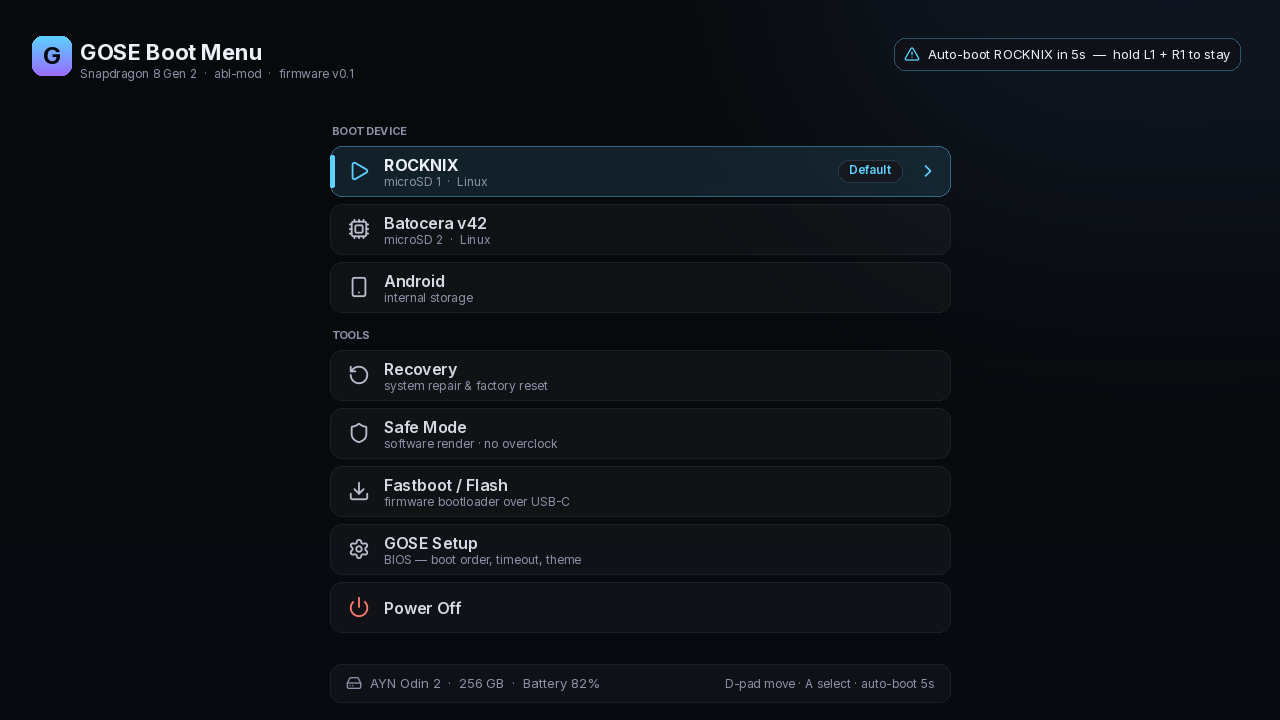
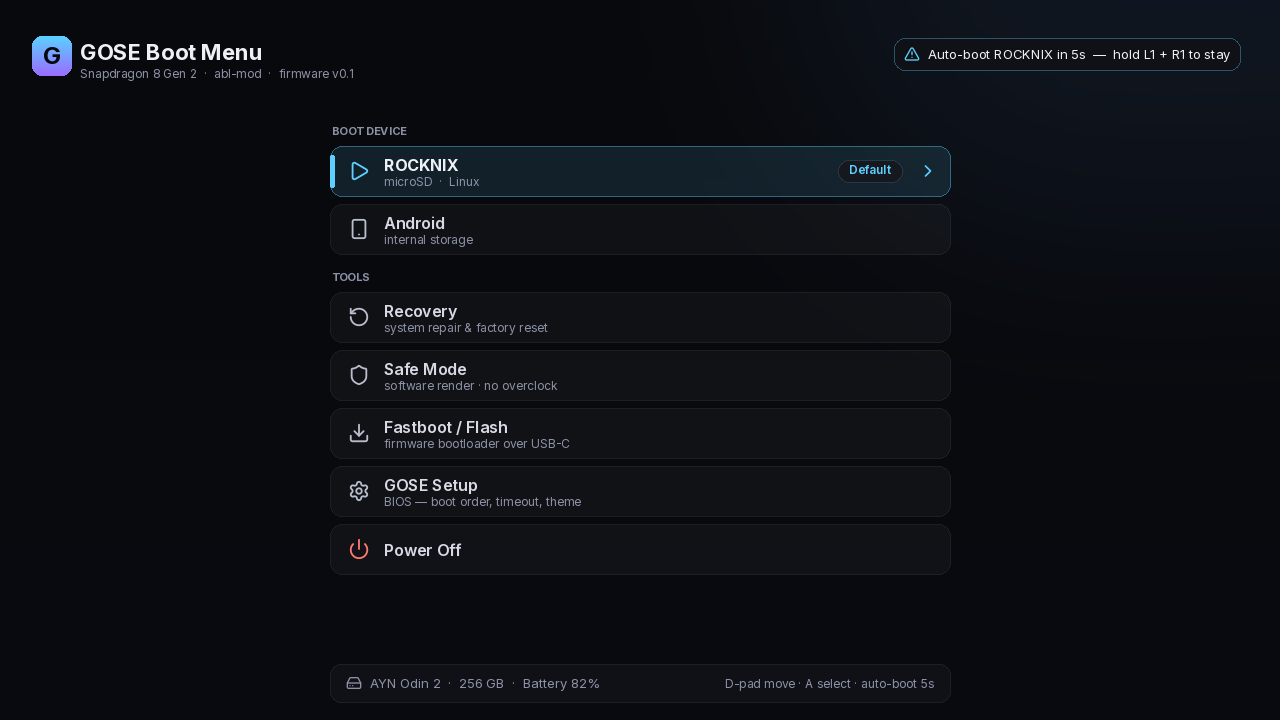
Pick single Linux = ROCKNIX; trim boot menu to ROCKNIX + Android
Zeke (2026-06-03): drop run-both-in-parallel — one best Linux + Android.
ROCKNIX chosen (verified-stable, officially supported on Odin 2); Batocera kept
as documented fallback only. ADR-0012 supersedes ADR-0001.

- Boot Menu: removed Batocera entry (BOOT = ROCKNIX + Android) across
  bootmenu.html, render_bootmenu.py, scripts/gose_bootmenu.py; re-rendered.
- Tests updated (boot entries = rocknix+android; 46 still pass).
- Updated CLAUDE.md current decision, ROADMAP, docs/10-boot-menu.md.

https://claude.ai/code/session_01R5HqBQytjbBWJqn7Wyq1Ca

diff --git a/gui/mockup/bootmenu.html b/gui/mockup/bootmenu.html
@@ -46,8 +46,7 @@
   document.documentElement.dataset.theme=localStorage.getItem("gose-theme")||"onyx";
   const ENTRIES=[
     ["BOOT DEVICE"],
-    ["play","ROCKNIX","microSD 1 · Linux","Default","boot"],
-    ["cpu","Batocera v42","microSD 2 · Linux","","boot"],
+    ["play","ROCKNIX","microSD · Linux","Default","boot"],
     ["smartphone","Android","internal storage","","boot"],
     ["TOOLS"],
     ["rotate-ccw","Recovery","system repair & factory reset","","tool"],

diff --git a/agent/tests/test_bootmenu.py b/agent/tests/test_bootmenu.py
@@ -40,11 +40,13 @@ class BootMenuLogic(unittest.TestCase):
         self.assertEqual(bm.move(n - 1, 1, n), 0)
 
     def test_select_returns_action(self):
-        self.assertEqual(bm.select(0), "boot:sd1")
+        self.assertEqual(bm.select(0), "boot:sd")
         self.assertEqual(bm.select(len(bm.BOOT_ENTRIES) - 1), "tool:poweroff")
 
-    def test_entries_match_count(self):
-        self.assertEqual(len(bm.BOOT_ENTRIES), 8)
+    def test_entries_are_rocknix_and_android_only(self):
+        boot = [e for e in bm.BOOT_ENTRIES if e[2].startswith("boot:")]
+        self.assertEqual([e[0] for e in boot], ["rocknix", "android"])
+        self.assertEqual(len(bm.BOOT_ENTRIES), 7)
 
 
 if __name__ == "__main__":

diff --git a/scripts/gose_bootmenu.py b/scripts/gose_bootmenu.py
@@ -25,8 +25,7 @@ DEFAULT_COMBO = frozenset({"L1", "R1"})
 
 # id, label, action — kept in sync with gui/mockup/bootmenu.html
 BOOT_ENTRIES = [
-    ("rocknix",  "ROCKNIX",          "boot:sd1"),
-    ("batocera", "Batocera v42",     "boot:sd2"),
+    ("rocknix",  "ROCKNIX",          "boot:sd"),
     ("android",  "Android",          "boot:internal"),
     ("recovery", "Recovery",         "tool:recovery"),
     ("safe",     "Safe Mode",        "tool:safe"),
@@ -93,7 +92,7 @@ def _cli(argv=None):
         assert decide(set(), 5.0, cfg) == "boot:rocknix"
         assert decide(set(), 99, cfg, menu_open=True) == "menu"
         assert move(0, -1, 8) == 7 and move(7, 1, 8) == 0
-        assert select(0) == "boot:sd1"
+        assert select(0) == "boot:sd"
         print("self-test OK")
         return 0
     held = {b.strip() for b in a.mock_hold.split(",") if b.strip()}

diff --git a/gui/mockup/render_bootmenu.py b/gui/mockup/render_bootmenu.py
@@ -12,8 +12,7 @@ from _render_common import (base, font, icon, panel, text, logo,
 W, H = 1280, 720
 OUT = os.path.join(os.path.dirname(os.path.abspath(__file__)), "bootmenu-concept.png")
 
-BOOT = [("play", "ROCKNIX", "microSD 1  ·  Linux", "Default", True),
-        ("cpu", "Batocera v42", "microSD 2  ·  Linux", "", False),
+BOOT = [("play", "ROCKNIX", "microSD  ·  Linux", "Default", True),
         ("smartphone", "Android", "internal storage", "", False)]
 TOOLS = [("rotate-ccw", "Recovery", "system repair & factory reset", "", False),
          ("shield", "Safe Mode", "software render · no overclock", "", False),

diff --git a/docs/10-boot-menu.md b/docs/10-boot-menu.md
@@ -33,8 +33,7 @@ countdown you can interrupt by holding the combo or pressing any input).
 ### Menu entries
 | Group | Entry | Action |
 |-------|-------|--------|
-| Boot device | ROCKNIX (microSD 1) — **default** | boot the Linux SD |
-| | Batocera v42 (microSD 2) | boot the spare SD |
+| Boot device | ROCKNIX (microSD) — **default** | boot the Linux SD |
 | | Android (internal) | reboot to stock Android |
 | Tools | Recovery | system repair / factory reset |
 | | Safe Mode | software render, no overclock |
@@ -42,11 +41,13 @@ countdown you can interrupt by holding the combo or pressing any input).
 | | GOSE Setup | BIOS settings — boot order, timeout, theme |
 | | Power Off | shut down |
 
-> Caveat: switching **between** ROCKNIX SD, Batocera SD, and internal Android is
-> not a pure software choice on the Odin 2 — it depends on the abl-mod + fastboot
-> boot-mode switch. So some entries trigger a **reboot into the right firmware
-> mode** rather than chain-loading directly. Final command wiring is **[needs
-> hardware]**.
+> Distro choice (ADR-0012): a **single Linux OS = ROCKNIX**, dual-booted with stock
+> **Android**. Batocera is a documented fallback only and is not in the menu.
+>
+> Caveat: switching **between** the ROCKNIX SD and internal Android is not a pure
+> software choice on the Odin 2 — it depends on the abl-mod + fastboot boot-mode
+> switch. So the Android entry triggers a **reboot into the right firmware mode**
+> rather than chain-loading directly. Final command wiring is **[needs hardware]**.
 
 ## Detection mechanism
 Pure decision logic lives in **`scripts/gose_bootmenu.py`** (unit-tested in

diff --git a/docs/04-decision-log.md b/docs/04-decision-log.md
@@ -3,6 +3,18 @@
 Append-only. Newest at top. Each: context → decision → status. Revisit freely;
 mark superseded ones rather than deleting.
 
+## ADR-0012 — Single Linux OS = ROCKNIX; dual-boot ROCKNIX + Android (supersedes ADR-0001)
+**Context:** Zeke (2026-06-03) dropped the run-both-in-parallel plan: "just choose
+the best Linux one for now and we'll just have Android and that one." **Decision:**
+ship a **single Linux OS = ROCKNIX** alongside stock **Android** (the device's
+natural dual-boot: ROCKNIX on microSD, Android on internal). ROCKNIX chosen as
+"best" because it's the **verified-stable, officially-supported** base on all Odin 2
+variants — the right call when there's one Linux slot. **Batocera stays a
+documented fallback** (bigger core library) if a specific system isn't covered well;
+custom code remains distro-agnostic so a swap is cheap. Boot Menu trimmed to
+**ROCKNIX + Android** (Batocera entry removed). **Status:** accepted; supersedes
+ADR-0001. Variant still TBD until hardware purchase.
+
 ## ADR-0011 — PC-style boot access: GOSE Boot Menu ("BIOS") over firmware fastboot
 **Context:** Zeke wants to hold two side buttons at power-on to reach a
 bootloader, like a Windows PC. Two layers exist: the Qualcomm firmware bootloader
@@ -100,7 +112,7 @@ shell, framebuffer, `gamelist.xml` convention) — not on ROCKNIX/Batocera
 internals. Distro-specific bits (theme format, paths) are isolated in config +
 `scripts/setup-device.sh`. **Status:** accepted.
 
-## ADR-0001 — Base distro: run BOTH in parallel, then bench
+## ADR-0001 — Base distro: run BOTH in parallel, then bench  ·  ⚠️ SUPERSEDED by ADR-0012
 **Context:** As of 2026-06 both support the Odin 2; ROCKNIX is officially stable on
 all three variants, Batocera v42 (SM8550) has the bigger library but is newer to
 the device. **Decision (Zeke, 2026-06-03):** stand up **ROCKNIX and Batocera on

diff --git a/CLAUDE.md b/CLAUDE.md
@@ -37,9 +37,11 @@ AI control agent, and the reproducible setup scripts.
   keep a direct USB-C→HDMI adapter as fallback. Dock USB/Ethernet more reliable.
 
 ## Current decision (revisit anytime)
-- **Base distro: BOTH in parallel** (Zeke's call, 2026-06-03) — stand up ROCKNIX
-  AND Batocera v42 on two SD cards and bench PSP/PS2/Switch on each before picking
-  a daily driver. Custom code stays **distro-agnostic**.
+- **Base distro: ROCKNIX only + Android** (Zeke, 2026-06-03, ADR-0012 — supersedes
+  the earlier "both in parallel" plan). One Linux slot, pick the best → **ROCKNIX**
+  (verified-stable, officially supported on Odin 2). Dual-boot = ROCKNIX (microSD) +
+  stock Android (internal). **Batocera = documented fallback** only. Custom code
+  stays **distro-agnostic** so a swap stays cheap.
 - **Device not yet acquired** (Zeke, 2026-06-03) — keep everything
   **variant-agnostic** (Odin 2 / Mini / Portal all viable). No hardware-specific
   assumptions until the unit is in hand.

diff --git a/ROADMAP.md b/ROADMAP.md
@@ -15,10 +15,10 @@ the cloud container) · 🧱 blocked
 ## Phase 1 — Base OS on hardware 🔌  (device NOT yet acquired)
 - ⬜ Acquire Odin 2 (+ Super Dock, A2 microSD ×2, 8BitDo Adapter 2, USB-C→HDMI)
 - ⬜ Confirm exact variant on arrival (2 / Mini / Portal)
-- ⬜ **Both in parallel:** flash ROCKNIX (card A) + Batocera SM8550 (card B); abl
-      mod; boot from SD (runbook §D)
-- ⬜ First-boot checklist on each (controller nav, Wi-Fi, BT, GPU, audio) (§F)
-- ⬜ Bench PSP/PS2/Switch on both → pick daily driver
+- ⬜ **Single Linux = ROCKNIX** (ADR-0012): flash ROCKNIX to microSD; abl mod; boot
+      from SD alongside stock Android (runbook §D). Batocera = fallback only.
+- ⬜ First-boot checklist (controller nav, Wi-Fi, BT, GPU, audio) (§F)
+- ⬜ Bench PSP/PS2/Switch on ROCKNIX → confirm it's the keeper
 
 ## Phase 2 — Emulation 🔌
 - ⬜ PSP runs great, upscaled (flagship)